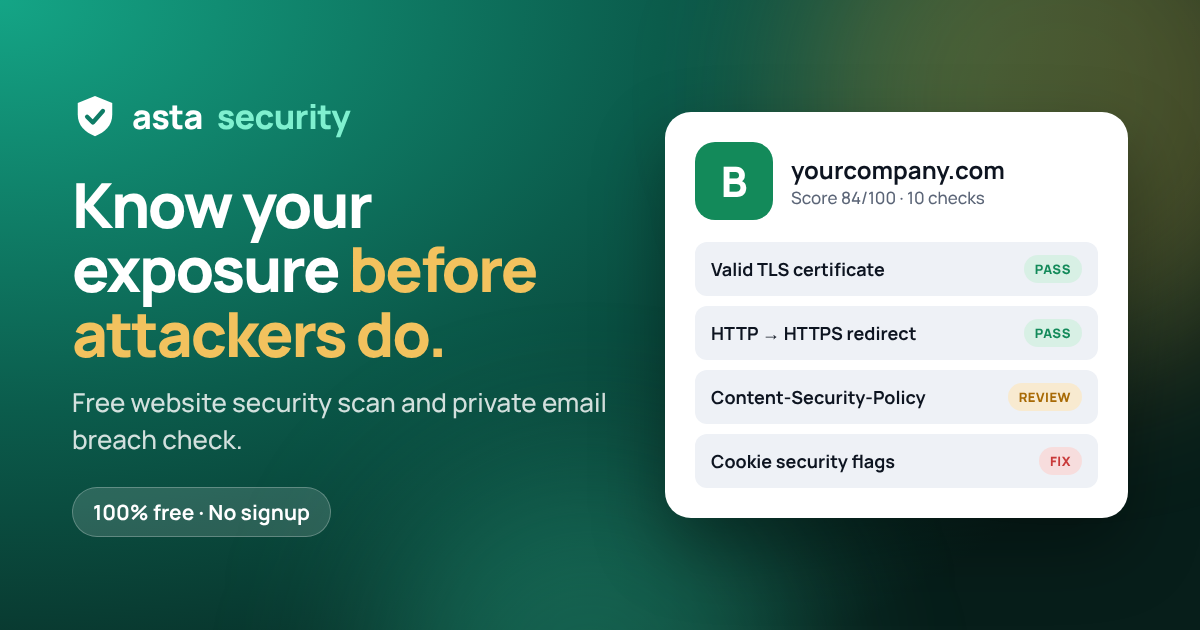
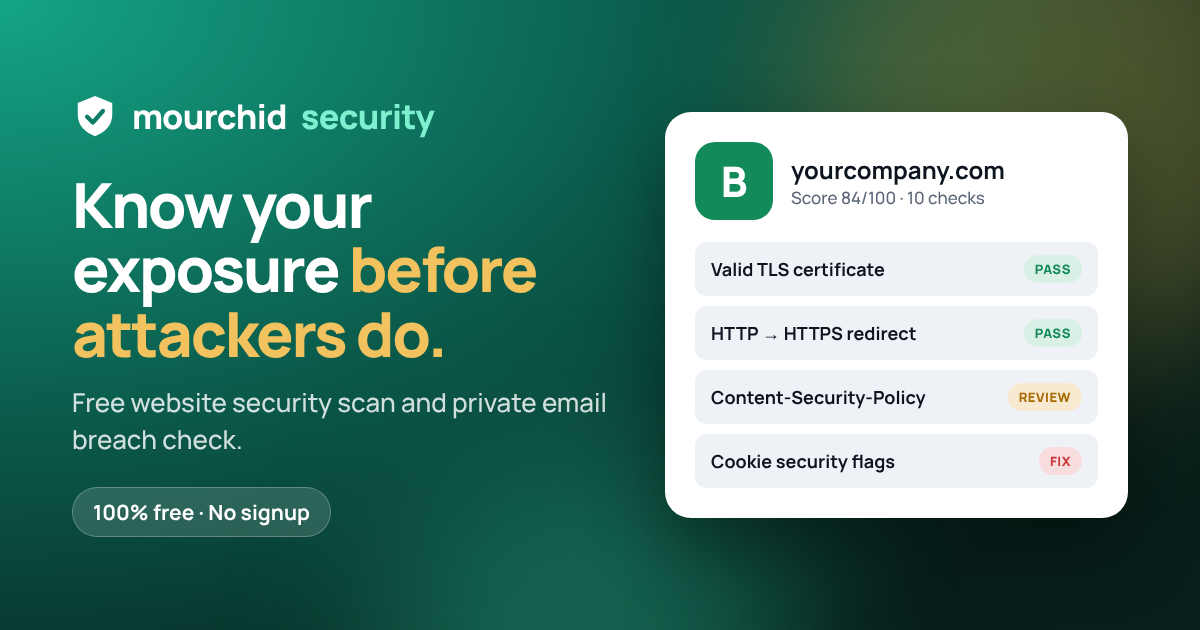
Rename to Mourchid Security and set contact email
- brand name, logo text, page titles, share tags, manifest, emails,
  scanner user agent, package and Render service name
- re-rendered the social share image with the new name
- contact email set in the Render blueprint

Changed region(s): [[0.0925, 0.1508, 0.37, 0.2111]]

diff --git a/public/index.html b/public/index.html
@@ -3,7 +3,7 @@
 <head>
   <meta charset="utf-8">
   <meta name="viewport" content="width=device-width, initial-scale=1">
-  <title>Asta Security — Free Website Security Scan & Email Breach Check</title>
+  <title>Mourchid Security — Free Website Security Scan & Email Breach Check</title>
   <meta name="description" content="Free website security scan and private email breach check. See your exposure in seconds and get plain-language fixes.">
   <link rel="icon" href="/favicon.ico" sizes="48x48">
   <link rel="icon" href="/favicon.svg" type="image/svg+xml">
@@ -13,14 +13,14 @@
   <meta name="theme-color" content="#0b1017" media="(prefers-color-scheme: dark)">
   <link rel="canonical" href="__SITE_URL__/">
   <meta property="og:type" content="website">
-  <meta property="og:site_name" content="Asta Security">
-  <meta property="og:title" content="Asta Security — Free Website Security Scan & Email Breach Check">
+  <meta property="og:site_name" content="Mourchid Security">
+  <meta property="og:title" content="Mourchid Security — Free Website Security Scan & Email Breach Check">
   <meta property="og:description" content="Free website security scan and private email breach check. See your exposure in seconds and get plain-language fixes.">
   <meta property="og:url" content="__SITE_URL__/">
   <meta property="og:image" content="__SITE_URL__/og-image.png">
   <meta property="og:image:width" content="1200">
   <meta property="og:image:height" content="630">
-  <meta property="og:image:alt" content="Asta Security: know your exposure before attackers do.">
+  <meta property="og:image:alt" content="Mourchid Security: know your exposure before attackers do.">
   <meta name="twitter:card" content="summary_large_image">
   <meta name="twitter:image" content="__SITE_URL__/og-image.png">
   <link rel="preconnect" href="https://fonts.googleapis.com">
@@ -56,7 +56,7 @@
   <div class="wrap">
     <a class="logo" href="/">
       <svg class="mark" viewBox="0 0 32 32" aria-hidden="true"><path d="M16 2 4 7v8c0 7.5 5.1 12.6 12 15 6.9-2.4 12-7.5 12-15V7z" fill="var(--accent)"/><path d="m10.5 16.5 4 4 7-8" fill="none" stroke="var(--accent-ink)" stroke-width="3" stroke-linecap="round" stroke-linejoin="round"/></svg>
-      asta<span>security</span>
+      mourchid<span>security</span>
     </a>
     <nav class="nav-links" id="navLinks">
       <a href="/exposure">My exposure</a>
@@ -311,7 +311,7 @@
       <div>
         <a class="logo" href="/">
           <svg class="mark" viewBox="0 0 32 32" aria-hidden="true"><path d="M16 2 4 7v8c0 7.5 5.1 12.6 12 15 6.9-2.4 12-7.5 12-15V7z" fill="var(--accent)"/><path d="m10.5 16.5 4 4 7-8" fill="none" stroke="var(--accent-ink)" stroke-width="3" stroke-linecap="round" stroke-linejoin="round"/></svg>
-          asta<span>security</span>
+          mourchid<span>security</span>
         </a>
         <p>Free website security scans and personal breach reports, explained in plain language.</p>
       </div>
@@ -320,7 +320,7 @@
       <div><h5>Legal</h5><ul><li><a href="/privacy">Privacy</a></li><li><a href="/terms">Terms</a></li></ul></div>
     </div>
     <div class="foot-bottom">
-      <span>© <span id="year"></span> Asta Security. All rights reserved.</span>
+      <span>© <span id="year"></span> Mourchid Security. All rights reserved.</span>
       <span>Scan responsibly.</span>
     </div>
   </div>

diff --git a/public/exposure.html b/public/exposure.html
@@ -3,7 +3,7 @@
 <head>
   <meta charset="utf-8">
   <meta name="viewport" content="width=device-width, initial-scale=1">
-  <title>My Exposure — Free Email Breach Check | Asta Security</title>
+  <title>My Exposure — Free Email Breach Check | Mourchid Security</title>
   <meta name="description" content="Check which data breaches exposed your email, test your passwords privately, and remove your data from brokers. Free.">
   <link rel="icon" href="/favicon.ico" sizes="48x48">
   <link rel="icon" href="/favicon.svg" type="image/svg+xml">
@@ -13,14 +13,14 @@
   <meta name="theme-color" content="#0b1017" media="(prefers-color-scheme: dark)">
   <link rel="canonical" href="__SITE_URL__/exposure">
   <meta property="og:type" content="website">
-  <meta property="og:site_name" content="Asta Security">
-  <meta property="og:title" content="My Exposure — Free Email Breach Check | Asta Security">
+  <meta property="og:site_name" content="Mourchid Security">
+  <meta property="og:title" content="My Exposure — Free Email Breach Check | Mourchid Security">
   <meta property="og:description" content="Check which data breaches exposed your email, test your passwords privately, and remove your data from brokers. Free.">
   <meta property="og:url" content="__SITE_URL__/exposure">
   <meta property="og:image" content="__SITE_URL__/og-image.png">
   <meta property="og:image:width" content="1200">
   <meta property="og:image:height" content="630">
-  <meta property="og:image:alt" content="Asta Security: know your exposure before attackers do.">
+  <meta property="og:image:alt" content="Mourchid Security: know your exposure before attackers do.">
   <meta name="twitter:card" content="summary_large_image">
   <meta name="twitter:image" content="__SITE_URL__/og-image.png">
   <link rel="preconnect" href="https://fonts.googleapis.com">
@@ -56,7 +56,7 @@
   <div class="wrap">
     <a class="logo" href="/">
       <svg class="mark" viewBox="0 0 32 32" aria-hidden="true"><path d="M16 2 4 7v8c0 7.5 5.1 12.6 12 15 6.9-2.4 12-7.5 12-15V7z" fill="var(--accent)"/><path d="m10.5 16.5 4 4 7-8" fill="none" stroke="var(--accent-ink)" stroke-width="3" stroke-linecap="round" stroke-linejoin="round"/></svg>
-      asta<span>security</span>
+      mourchid<span>security</span>
     </a>
     <nav class="nav-links" id="navLinks">
       <a href="/exposure">My exposure</a>
@@ -192,7 +192,7 @@
       <div>
         <a class="logo" href="/">
           <svg class="mark" viewBox="0 0 32 32" aria-hidden="true"><path d="M16 2 4 7v8c0 7.5 5.1 12.6 12 15 6.9-2.4 12-7.5 12-15V7z" fill="var(--accent)"/><path d="m10.5 16.5 4 4 7-8" fill="none" stroke="var(--accent-ink)" stroke-width="3" stroke-linecap="round" stroke-linejoin="round"/></svg>
-          asta<span>security</span>
+          mourchid<span>security</span>
         </a>
         <p>Free website security scans and personal breach reports, explained in plain language.</p>
       </div>
@@ -201,7 +201,7 @@
       <div><h5>Legal</h5><ul><li><a href="/privacy">Privacy</a></li><li><a href="/terms">Terms</a></li></ul></div>
     </div>
     <div class="foot-bottom">
-      <span>© <span id="year"></span> Asta Security. All rights reserved.</span>
+      <span>© <span id="year"></span> Mourchid Security. All rights reserved.</span>
       <span>Scan responsibly.</span>
     </div>
   </div>

diff --git a/public/terms.html b/public/terms.html
@@ -3,8 +3,8 @@
 <head>
   <meta charset="utf-8">
   <meta name="viewport" content="width=device-width, initial-scale=1">
-  <title>Terms of Use — Asta Security</title>
-  <meta name="description" content="Terms of use for Asta Security free tools.">
+  <title>Terms of Use — Mourchid Security</title>
+  <meta name="description" content="Terms of use for Mourchid Security free tools.">
   <link rel="icon" href="/favicon.ico" sizes="48x48">
   <link rel="icon" href="/favicon.svg" type="image/svg+xml">
   <link rel="apple-touch-icon" href="/apple-touch-icon.png">
@@ -13,14 +13,14 @@
   <meta name="theme-color" content="#0b1017" media="(prefers-color-scheme: dark)">
   <link rel="canonical" href="__SITE_URL__/terms">
   <meta property="og:type" content="website">
-  <meta property="og:site_name" content="Asta Security">
-  <meta property="og:title" content="Terms of Use — Asta Security">
-  <meta property="og:description" content="Terms of use for Asta Security free tools.">
+  <meta property="og:site_name" content="Mourchid Security">
+  <meta property="og:title" content="Terms of Use — Mourchid Security">
+  <meta property="og:description" content="Terms of use for Mourchid Security free tools.">
   <meta property="og:url" content="__SITE_URL__/terms">
   <meta property="og:image" content="__SITE_URL__/og-image.png">
   <meta property="og:image:width" content="1200">
   <meta property="og:image:height" content="630">
-  <meta property="og:image:alt" content="Asta Security: know your exposure before attackers do.">
+  <meta property="og:image:alt" content="Mourchid Security: know your exposure before attackers do.">
   <meta name="twitter:card" content="summary_large_image">
   <meta name="twitter:image" content="__SITE_URL__/og-image.png">
   <link rel="preconnect" href="https://fonts.googleapis.com">
@@ -56,7 +56,7 @@
   <div class="wrap">
     <a class="logo" href="/">
       <svg class="mark" viewBox="0 0 32 32" aria-hidden="true"><path d="M16 2 4 7v8c0 7.5 5.1 12.6 12 15 6.9-2.4 12-7.5 12-15V7z" fill="var(--accent)"/><path d="m10.5 16.5 4 4 7-8" fill="none" stroke="var(--accent-ink)" stroke-width="3" stroke-linecap="round" stroke-linejoin="round"/></svg>
-      asta<span>security</span>
+      mourchid<span>security</span>
     </a>
     <nav class="nav-links" id="navLinks">
       <a href="/exposure">My exposure</a>
@@ -86,7 +86,7 @@
       <div>
         <a class="logo" href="/">
           <svg class="mark" viewBox="0 0 32 32" aria-hidden="true"><path d="M16 2 4 7v8c0 7.5 5.1 12.6 12 15 6.9-2.4 12-7.5 12-15V7z" fill="var(--accent)"/><path d="m10.5 16.5 4 4 7-8" fill="none" stroke="var(--accent-ink)" stroke-width="3" stroke-linecap="round" stroke-linejoin="round"/></svg>
-          asta<span>security</span>
+          mourchid<span>security</span>
         </a>
         <p>Free website security scans and personal breach reports, explained in plain language.</p>
       </div>
@@ -95,7 +95,7 @@
       <div><h5>Legal</h5><ul><li><a href="/privacy">Privacy</a></li><li><a href="/terms">Terms</a></li></ul></div>
     </div>
     <div class="foot-bottom">
-      <span>© <span id="year"></span> Asta Security. All rights reserved.</span>
+      <span>© <span id="year"></span> Mourchid Security. All rights reserved.</span>
       <span>Scan responsibly.</span>
     </div>
   </div>

diff --git a/public/privacy.html b/public/privacy.html
@@ -3,8 +3,8 @@
 <head>
   <meta charset="utf-8">
   <meta name="viewport" content="width=device-width, initial-scale=1">
-  <title>Privacy Policy — Asta Security</title>
-  <meta name="description" content="How Asta Security handles your data.">
+  <title>Privacy Policy — Mourchid Security</title>
+  <meta name="description" content="How Mourchid Security handles your data.">
   <link rel="icon" href="/favicon.ico" sizes="48x48">
   <link rel="icon" href="/favicon.svg" type="image/svg+xml">
   <link rel="apple-touch-icon" href="/apple-touch-icon.png">
@@ -13,14 +13,14 @@
   <meta name="theme-color" content="#0b1017" media="(prefers-color-scheme: dark)">
   <link rel="canonical" href="__SITE_URL__/privacy">
   <meta property="og:type" content="website">
-  <meta property="og:site_name" content="Asta Security">
-  <meta property="og:title" content="Privacy Policy — Asta Security">
-  <meta property="og:description" content="How Asta Security handles your data.">
+  <meta property="og:site_name" content="Mourchid Security">
+  <meta property="og:title" content="Privacy Policy — Mourchid Security">
+  <meta property="og:description" content="How Mourchid Security handles your data.">
   <meta property="og:url" content="__SITE_URL__/privacy">
   <meta property="og:image" content="__SITE_URL__/og-image.png">
   <meta property="og:image:width" content="1200">
   <meta property="og:image:height" content="630">
-  <meta property="og:image:alt" content="Asta Security: know your exposure before attackers do.">
+  <meta property="og:image:alt" content="Mourchid Security: know your exposure before attackers do.">
   <meta name="twitter:card" content="summary_large_image">
   <meta name="twitter:image" content="__SITE_URL__/og-image.png">
   <link rel="preconnect" href="https://fonts.googleapis.com">
@@ -56,7 +56,7 @@
   <div class="wrap">
     <a class="logo" href="/">
       <svg class="mark" viewBox="0 0 32 32" aria-hidden="true"><path d="M16 2 4 7v8c0 7.5 5.1 12.6 12 15 6.9-2.4 12-7.5 12-15V7z" fill="var(--accent)"/><path d="m10.5 16.5 4 4 7-8" fill="none" stroke="var(--accent-ink)" stroke-width="3" stroke-linecap="round" stroke-linejoin="round"/></svg>
-      asta<span>security</span>
+      mourchid<span>security</span>
     </a>
     <nav class="nav-links" id="navLinks">
       <a href="/exposure">My exposure</a>
@@ -86,7 +86,7 @@
       <div>
         <a class="logo" href="/">
           <svg class="mark" viewBox="0 0 32 32" aria-hidden="true"><path d="M16 2 4 7v8c0 7.5 5.1 12.6 12 15 6.9-2.4 12-7.5 12-15V7z" fill="var(--accent)"/><path d="m10.5 16.5 4 4 7-8" fill="none" stroke="var(--accent-ink)" stroke-width="3" stroke-linecap="round" stroke-linejoin="round"/></svg>
-          asta<span>security</span>
+          mourchid<span>security</span>
         </a>
         <p>Free website security scans and personal breach reports, explained in plain language.</p>
       </div>
@@ -95,7 +95,7 @@
       <div><h5>Legal</h5><ul><li><a href="/privacy">Privacy</a></li><li><a href="/terms">Terms</a></li></ul></div>
     </div>
     <div class="foot-bottom">
-      <span>© <span id="year"></span> Asta Security. All rights reserved.</span>
+      <span>© <span id="year"></span> Mourchid Security. All rights reserved.</span>
       <span>Scan responsibly.</span>
     </div>
   </div>

diff --git a/public/404.html b/public/404.html
@@ -3,7 +3,7 @@
 <head>
   <meta charset="utf-8">
   <meta name="viewport" content="width=device-width, initial-scale=1">
-  <title>Page not found — Asta Security</title>
+  <title>Page not found — Mourchid Security</title>
   <meta name="description" content="This page does not exist.">
   <link rel="icon" href="/favicon.ico" sizes="48x48">
   <link rel="icon" href="/favicon.svg" type="image/svg+xml">
@@ -12,14 +12,14 @@
   <meta name="theme-color" content="#f4f6f9" media="(prefers-color-scheme: light)">
   <meta name="theme-color" content="#0b1017" media="(prefers-color-scheme: dark)">
   <meta property="og:type" content="website">
-  <meta property="og:site_name" content="Asta Security">
-  <meta property="og:title" content="Page not found — Asta Security">
+  <meta property="og:site_name" content="Mourchid Security">
+  <meta property="og:title" content="Page not found — Mourchid Security">
   <meta property="og:description" content="This page does not exist.">
   <meta property="og:url" content="__SITE_URL__/">
   <meta property="og:image" content="__SITE_URL__/og-image.png">
   <meta property="og:image:width" content="1200">
   <meta property="og:image:height" content="630">
-  <meta property="og:image:alt" content="Asta Security: know your exposure before attackers do.">
+  <meta property="og:image:alt" content="Mourchid Security: know your exposure before attackers do.">
   <meta name="twitter:card" content="summary_large_image">
   <meta name="twitter:image" content="__SITE_URL__/og-image.png">
   <meta name="robots" content="noindex">
@@ -56,7 +56,7 @@
   <div class="wrap">
     <a class="logo" href="/">
       <svg class="mark" viewBox="0 0 32 32" aria-hidden="true"><path d="M16 2 4 7v8c0 7.5 5.1 12.6 12 15 6.9-2.4 12-7.5 12-15V7z" fill="var(--accent)"/><path d="m10.5 16.5 4 4 7-8" fill="none" stroke="var(--accent-ink)" stroke-width="3" stroke-linecap="round" stroke-linejoin="round"/></svg>
-      asta<span>security</span>
+      mourchid<span>security</span>
     </a>
     <nav class="nav-links" id="navLinks">
       <a href="/exposure">My exposure</a>
@@ -81,7 +81,7 @@
       <div>
         <a class="logo" href="/">
           <svg class="mark" viewBox="0 0 32 32" aria-hidden="true"><path d="M16 2 4 7v8c0 7.5 5.1 12.6 12 15 6.9-2.4 12-7.5 12-15V7z" fill="var(--accent)"/><path d="m10.5 16.5 4 4 7-8" fill="none" stroke="var(--accent-ink)" stroke-width="3" stroke-linecap="round" stroke-linejoin="round"/></svg>
-          asta<span>security</span>
+          mourchid<span>security</span>
         </a>
         <p>Free website security scans and personal breach reports, explained in plain language.</p>
       </div>
@@ -90,7 +90,7 @@
       <div><h5>Legal</h5><ul><li><a href="/privacy">Privacy</a></li><li><a href="/terms">Terms</a></li></ul></div>
     </div>
     <div class="foot-bottom">
-      <span>© <span id="year"></span> Asta Security. All rights reserved.</span>
+      <span>© <span id="year"></span> Mourchid Security. All rights reserved.</span>
       <span>Scan responsibly.</span>
     </div>
   </div>

diff --git a/verify.js b/verify.js
@@ -64,7 +64,7 @@ function emailHtml(code) {
   return `<!doctype html><html><body style="margin:0;background:#f4f6f9;font-family:-apple-system,Segoe UI,Helvetica,Arial,sans-serif;color:#0d1420">
   <table role="presentation" width="100%" cellpadding="0" cellspacing="0" style="padding:32px 16px"><tr><td align="center">
     <table role="presentation" width="100%" cellpadding="0" cellspacing="0" style="max-width:460px;background:#ffffff;border:1px solid #dde2ea;border-radius:16px;padding:32px">
-      <tr><td style="font-size:20px;font-weight:800">asta<span style="color:#0e7c66">security</span></td></tr>
+      <tr><td style="font-size:20px;font-weight:800">mourchid<span style="color:#0e7c66">security</span></td></tr>
       <tr><td style="padding-top:22px;font-size:16px;line-height:1.5">Here is your verification code to see your exposure report:</td></tr>
       <tr><td style="padding:18px 0;font-size:34px;font-weight:800;letter-spacing:8px;font-family:Menlo,Consolas,monospace">${code}</td></tr>
       <tr><td style="font-size:14px;line-height:1.5;color:#5b6577">It expires in 10 minutes. If you didn't request this, you can safely ignore this email. Nobody can see your report without this code.</td></tr>
@@ -87,7 +87,7 @@ async function sendCode(email, code) {
     body: JSON.stringify({
       from: config.mailFrom,
       to: [email],
-      subject: `Your Asta Security code: ${code}`,
+      subject: `Your Mourchid Security code: ${code}`,
       text: `Your verification code is ${code}\n\nIt expires in 10 minutes. If you didn't request this, ignore this email.`,
       html: emailHtml(code),
     }),

diff --git a/server.js b/server.js
@@ -1,4 +1,4 @@
-// Asta Security — static site + passive website security scan API.
+// Mourchid Security — static site + passive website security scan API.
 // Zero dependencies; requires Node 18+ (global fetch).
 const http = require('node:http');
 const fs = require('node:fs');
@@ -128,7 +128,7 @@ async function fetchHead(url) {
     method: 'GET',
     redirect: 'manual',
     signal: AbortSignal.timeout(TIMEOUT_MS),
-    headers: { 'user-agent': 'AstaSecurityScanner/1.0 (+passive header check)' },
+    headers: { 'user-agent': 'MourchidSecurityScanner/1.0 (+passive header check)' },
   });
   res.body?.cancel().catch(() => {});
   return res;
@@ -407,7 +407,7 @@ if (require.main === module) {
     process.exit(1);
   }
   server.listen(PORT, () => {
-    console.log(`Asta Security running on http://localhost:${PORT}`);
+    console.log(`Mourchid Security running on http://localhost:${PORT}`);
     if (!config.resendApiKey) console.log('Email sending is off (no RESEND_API_KEY): verification codes will be printed here.');
   });
   const shutdown = () => server.close(() => process.exit(0));

diff --git a/config.js b/config.js
@@ -26,9 +26,9 @@ const config = {
   trustProxy: env.TRUST_PROXY === '1' || env.TRUST_PROXY === 'true',
   sessionSecret: env.SESSION_SECRET || '',
   resendApiKey: env.RESEND_API_KEY || '',
-  mailFrom: env.MAIL_FROM || 'Asta Security <onboarding@resend.dev>',
+  mailFrom: env.MAIL_FROM || 'Mourchid Security <onboarding@resend.dev>',
   contactEmail: env.CONTACT_EMAIL || 'hello@example.com',
-  // Public address of the site, e.g. https://asta-security.onrender.com (no trailing slash).
+  // Public address of the site, e.g. https://mourchid-security.onrender.com (no trailing slash).
   // Used in share previews, canonical links and the sitemap. Falls back to the request's host.
   siteUrl: (env.SITE_URL || '').replace(/\/+$/, ''),
 };

diff --git a/breach-check.js b/breach-check.js
@@ -1,7 +1,7 @@
 // Breach report for a single email address the requester has already
 // verified they own. Data source: XposedOrNot (free, public breach index).
 const TIMEOUT_MS = 15000;
-const UA = 'AstaSecurity/1.0 (+self-service breach check)';
+const UA = 'MourchidSecurity/1.0 (+self-service breach check)';
 
 const EMAIL_RE = /^[^\s@]{1,64}@[a-z0-9.-]{1,253}\.[a-z]{2,24}$/i;
 

diff --git a/README.md b/README.md
@@ -1,4 +1,4 @@
-# Asta Security
+# Mourchid Security
 
 Marketing site for a website security scanner. The scan box runs real **passive** checks against a domain:
 
@@ -31,7 +31,7 @@ Copy `.env.example` to `.env` and fill it in. The server reads `.env` at startup
 | `TRUST_PROXY` | Behind a proxy | Set to `1` on Railway, Render, Fly or behind nginx so rate limits use the real visitor IP. Leave `0` if exposed directly, or visitors could fake their IP. |
 | `SESSION_SECRET` | In production | Signs verification tokens. Generate with `node -e "console.log(require('crypto').randomBytes(32).toString('hex'))"`. |
 | `RESEND_API_KEY` | In production | [Resend](https://resend.com) API key for emailing verification codes. Without it (local only), codes are printed in the server terminal. |
-| `MAIL_FROM` | In production | Sender, e.g. `Asta Security <verify@yourdomain.com>`, on a domain verified in Resend. `onboarding@resend.dev` only delivers to your own Resend account address. |
+| `MAIL_FROM` | In production | Sender, e.g. `Mourchid Security <verify@yourdomain.com>`, on a domain verified in Resend. `onboarding@resend.dev` only delivers to your own Resend account address. |
 | `CONTACT_EMAIL` | Recommended | Address used in the site's Contact links. |
 
 `GET /healthz` returns `{"ok":true}` for uptime checks.
@@ -55,7 +55,7 @@ The repository includes a `render.yaml` blueprint, so deploying takes about thre
 2. **New → Blueprint**, pick this repository, then **Apply**.
 3. When asked, fill in:
    - `RESEND_API_KEY`: your Resend sending key
-   - `SITE_URL`: leave empty for the first deploy, then set it to the address Render gives you (e.g. `https://asta-security.onrender.com`) and redeploy, so link previews work
+   - `SITE_URL`: leave empty for the first deploy, then set it to the address Render gives you (e.g. `https://mourchid-security.onrender.com`) and redeploy, so link previews work
    - `CONTACT_EMAIL`: optional; contact links stay hidden until it is set
 4. Open the address Render shows. `NODE_ENV=production`, `TRUST_PROXY=1` and a random `SESSION_SECRET` are set by the blueprint.
 
